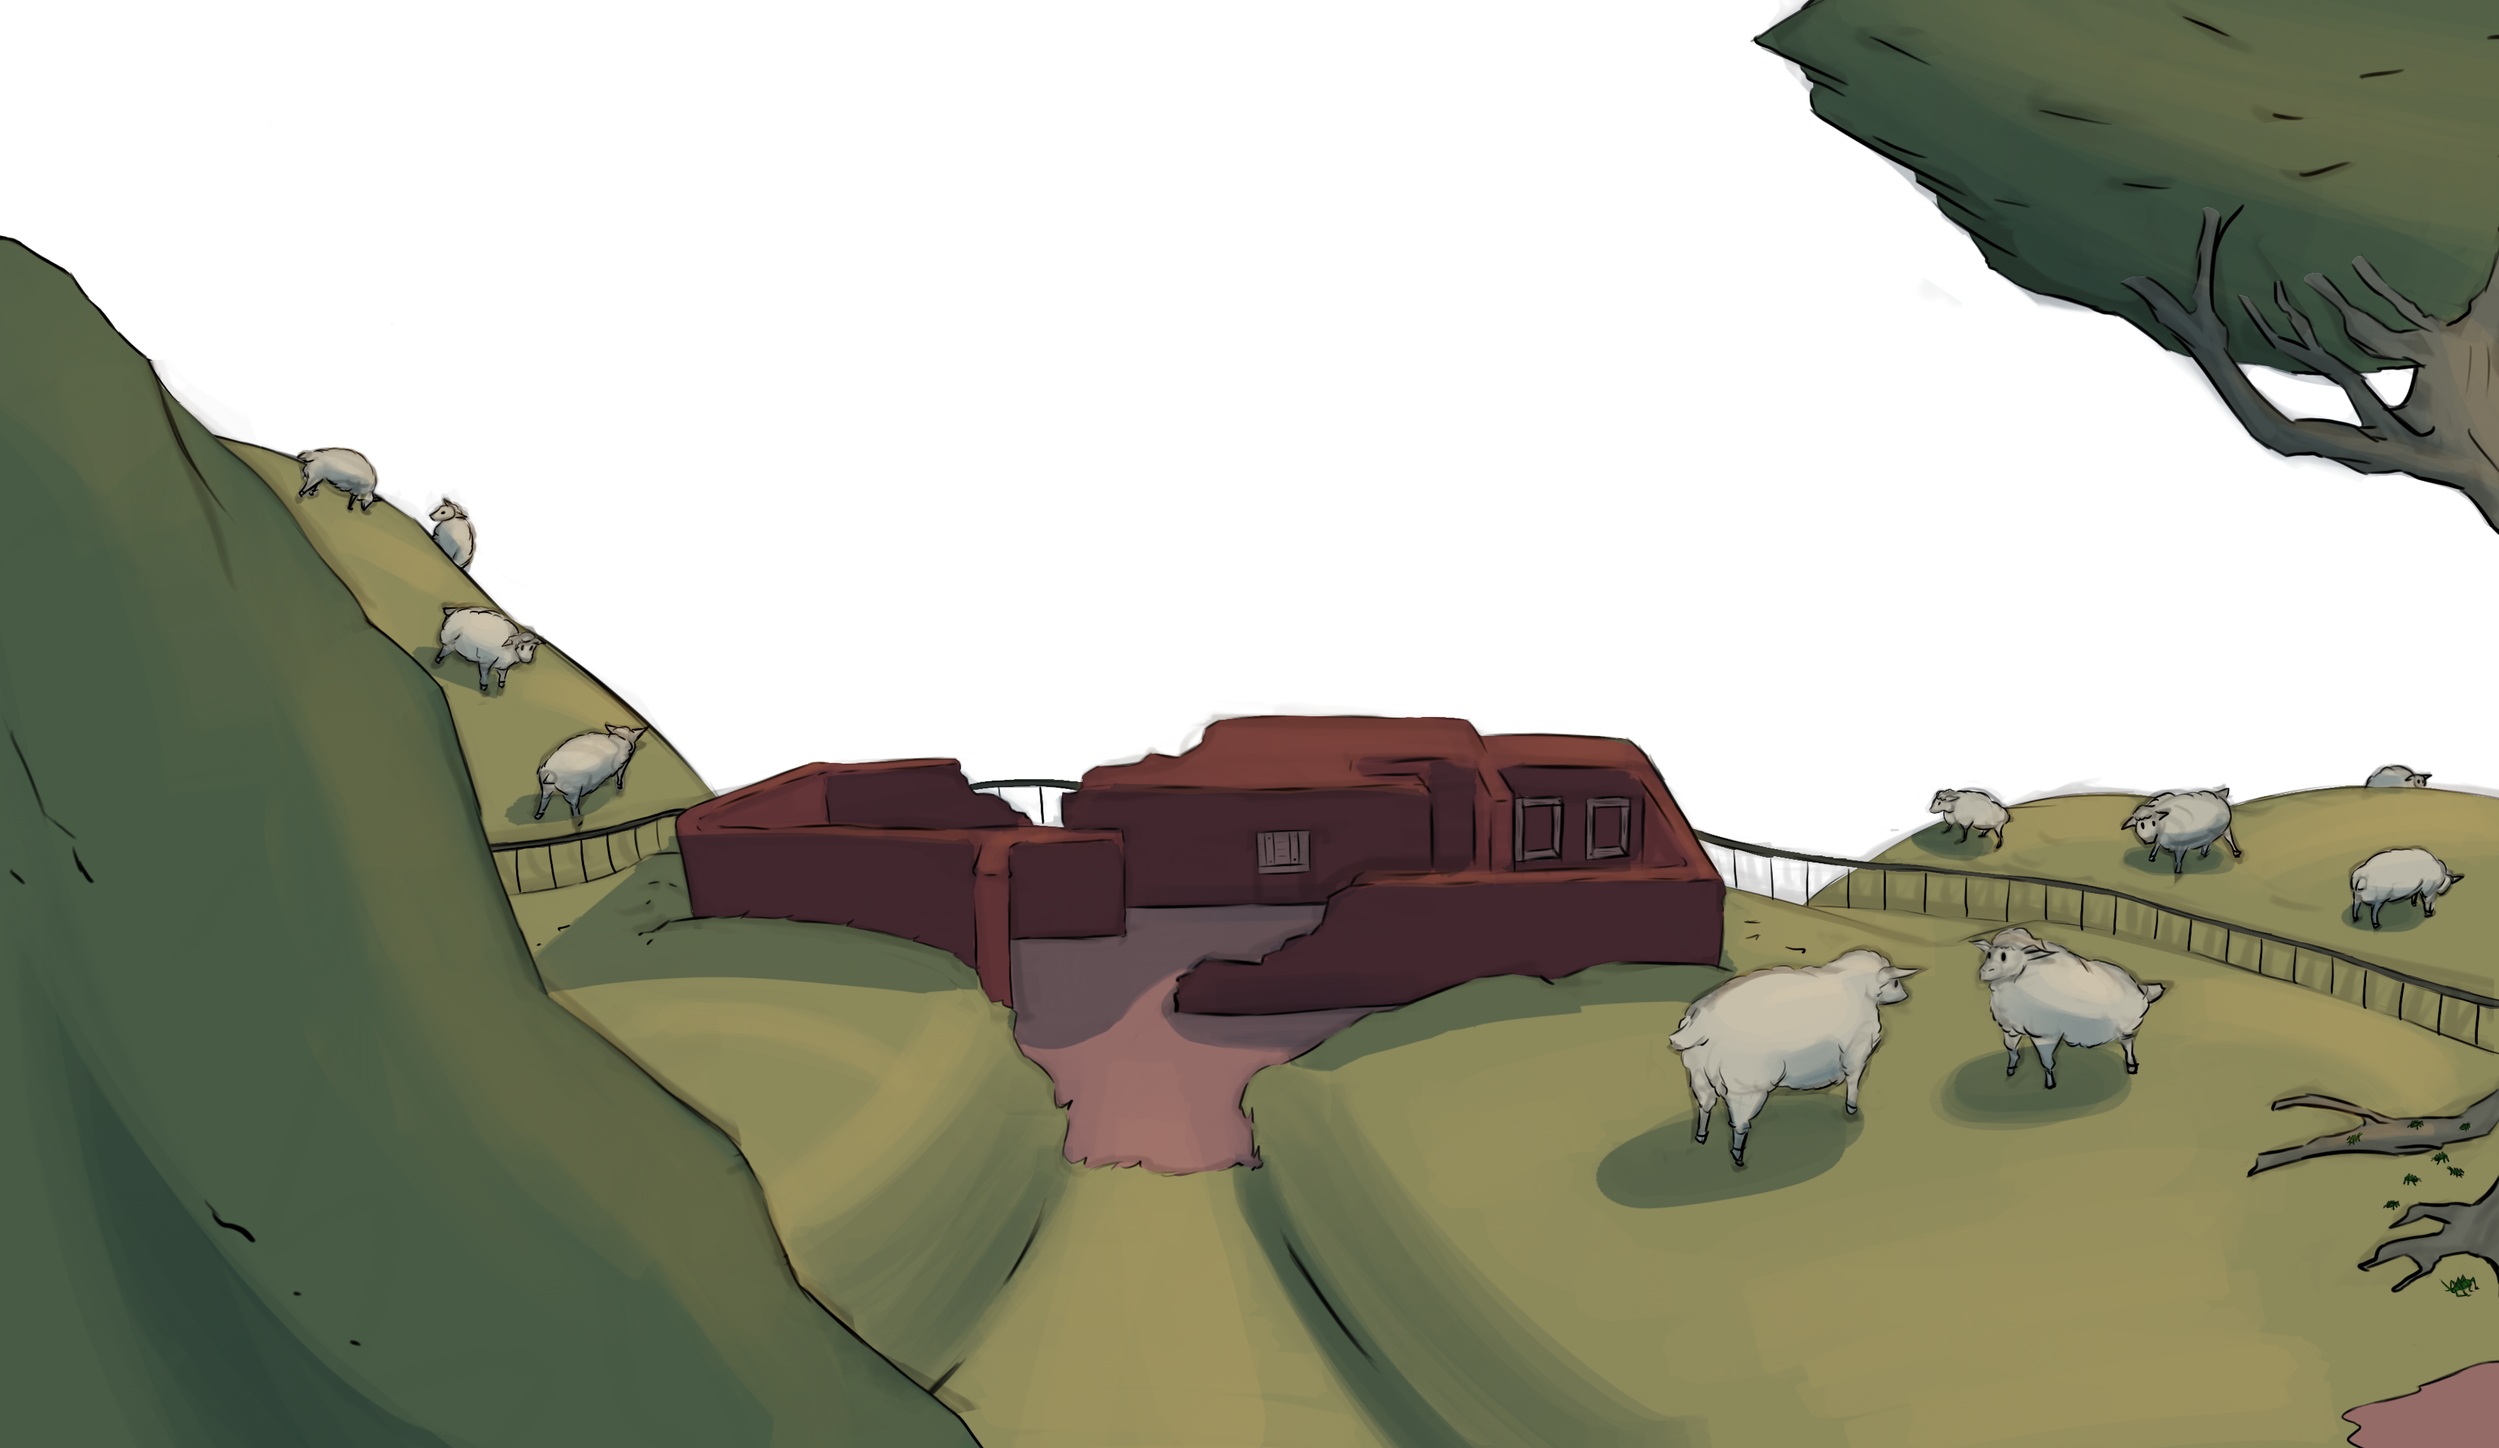
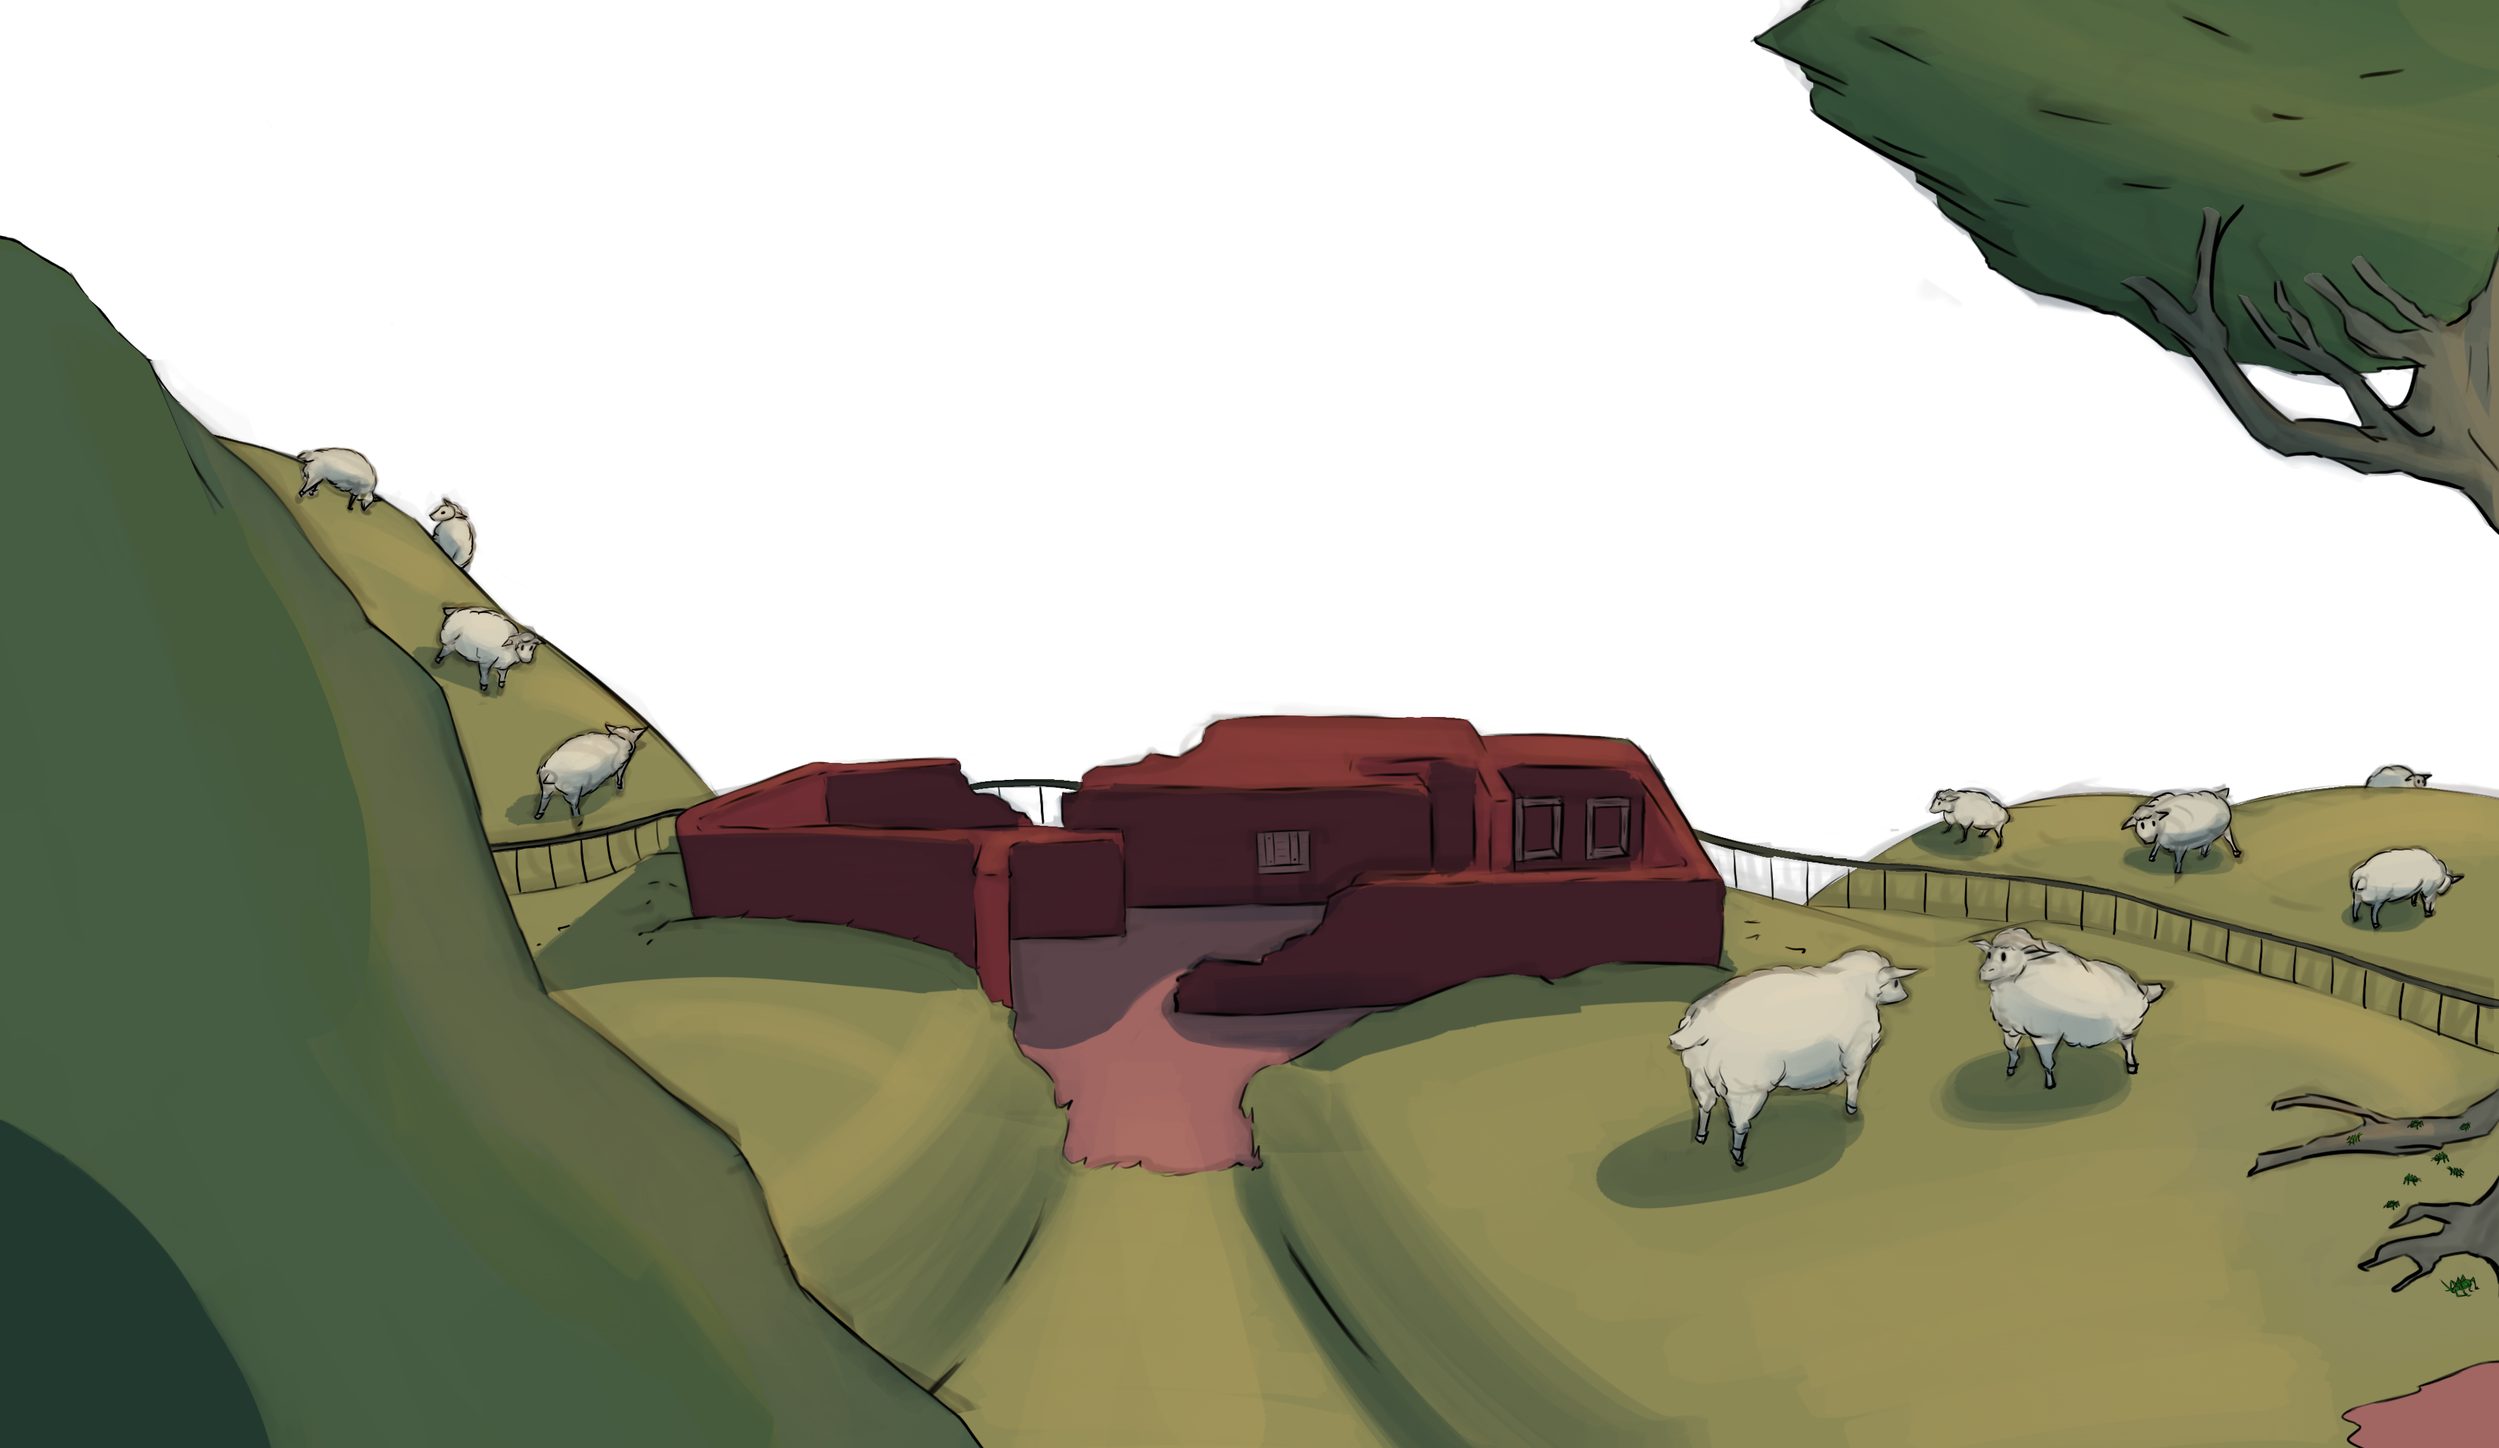
Made heavy edits to shadows

diff --git a/parallaxComic/parallax.html b/parallaxComic/parallax.html
@@ -94,7 +94,7 @@
 			<img class="parallaxImg" data-stellar-ratio="1" src = "artwork/section5/1.PNG" style="width: 100%">
 
 			<!-- need to fix.. -->
-			<img class="parallaxImg" data-stellar-ratio="1.2" src = "artwork/section5/2.PNG" style="z-index: -2; top: 3vh;" >
+			<img class="parallaxImg" data-stellar-ratio="1.2" src = "artwork/section5/2.PNG" style="z-index: -2" >
 
 
 			<img class="parallaxImg" data-stellar-ratio="1.8" src = "artwork/section5/4.PNG" style="z-index: 0" >
@@ -116,7 +116,6 @@
 				<img class="parallaxImg" data-stellar-ratio="1" src = "artwork/section1/2.PNG" >
 			<!-- 	<img class="parallaxImg" data-stellar-ratio="-1.4" src = "artwork/section1/3.PNG" style="z-index: -2" >
 				<img class="parallaxImg" data-stellar-ratio="-2" src = "artwork/section1/4.PNG" > -->
-			   	<img class="parallaxImg" data-stellar-ratio="1" src = "artwork/section1/5.PNG" >
 		</div>
 
 		<div class="parallaxElement" data-stellar-background-ratio="1" data-stellar-offset-parent="true" id="section2"> 
